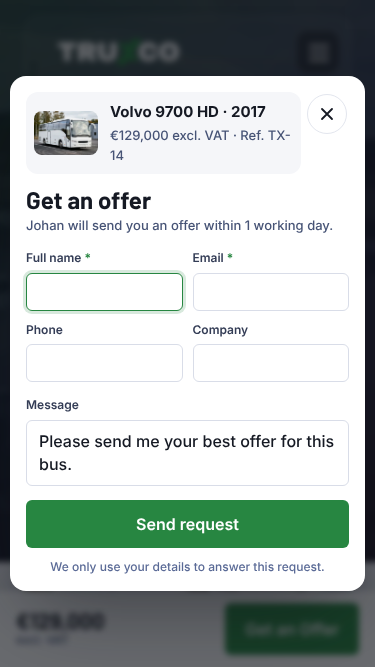
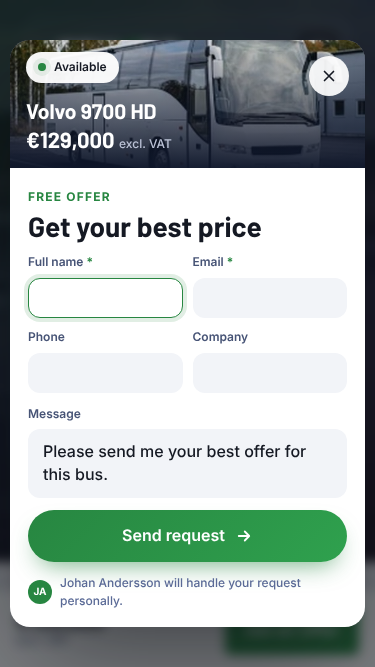
Truxco record: modern two-panel offer popup
Claude-Session: https://claude.ai/code/session_01CJrfSMbtJkdqaRmDBKHX4E

diff --git a/truxco-design/website-v2/BusDetail.dc.html b/truxco-design/website-v2/BusDetail.dc.html
@@ -40,19 +40,32 @@ a{color:#3050A6}a:hover{color:#151923}
 .bd-status{align-self:flex-start;display:inline-flex;align-items:center;gap:8px;font-size:13px;font-weight:600;color:#226333;background:#E2F8E8;padding:6px 12px;border-radius:999px}
 .bd-dot{flex:none;width:8px;height:8px;border-radius:50%;background:#278641;box-shadow:0 0 0 3px rgba(39,134,65,0.2);animation:bdPulse 2s ease-in-out infinite}@keyframes bdPulse{50%{box-shadow:0 0 0 5px rgba(39,134,65,0.08)}}
 @media (prefers-reduced-motion: reduce){.bd-dot{animation:none}}
-.of-overlay{position:fixed;inset:0;z-index:100;background:rgba(13,16,22,0.62);backdrop-filter:blur(3px);animation:ofFade .2s ease both}
+.of-overlay{position:fixed;inset:0;z-index:100;background:rgba(13,16,22,0.55);backdrop-filter:blur(6px);animation:ofFade .2s ease both}
 .of-wrap{position:fixed;inset:0;z-index:101;display:flex;align-items:center;justify-content:center;padding:16px;pointer-events:none}
-.of-dialog{pointer-events:auto;position:relative;width:100%;max-width:520px;max-height:calc(100dvh - 24px);overflow-y:auto;box-sizing:border-box;background:#FFFFFF;border-radius:20px;padding:20px 22px 18px;display:flex;flex-direction:column;gap:16px;box-shadow:0 30px 80px -20px rgba(13,16,22,0.5);animation:ofIn .25s cubic-bezier(.2,.8,.2,1) both}
-.of-x{position:absolute;top:18px;right:18px;width:40px;height:40px;border-radius:50%;border:1px solid #E3E6EE;background:#FFFFFF;color:#151923;display:flex;align-items:center;justify-content:center;cursor:pointer}.of-x:hover{background:#F5F6F9}
+.of-dialog{pointer-events:auto;position:relative;width:100%;max-width:820px;max-height:calc(100dvh - 24px);overflow:hidden;box-sizing:border-box;background:#FFFFFF;border-radius:24px;display:grid;grid-template-columns:300px minmax(0,1fr);box-shadow:0 40px 100px -24px rgba(13,16,22,0.6);animation:ofIn .3s cubic-bezier(.2,.8,.2,1) both}
+.of-side{position:relative;overflow:hidden;background:#0E162A;color:#FFFFFF;display:flex;flex-direction:column;justify-content:space-between;padding:20px}
+.of-side-img{position:absolute;inset:0;width:100%;height:100%;object-fit:cover}
+.of-side-shade{position:absolute;inset:0;background:linear-gradient(180deg,rgba(14,22,42,0.1) 0%,rgba(14,22,42,0.5) 45%,rgba(14,22,42,0.96) 100%)}
+.of-side-top,.of-side-body{position:relative}
+.of-side-body{display:flex;flex-direction:column;gap:6px}
+.of-chip{display:inline-flex;align-items:center;gap:8px;font-size:12px;font-weight:600;color:#151923;background:rgba(255,255,255,0.95);padding:6px 12px;border-radius:999px}
+.of-perks{list-style:none;margin:10px 0 0;padding:12px 0 0;border-top:1px solid rgba(255,255,255,0.14);display:flex;flex-direction:column;gap:6px;font-size:13px;color:#D9DDE8}.of-perks li{display:flex;align-items:center;gap:8px}
+.of-main{padding:26px 28px 22px;display:flex;flex-direction:column;justify-content:center}
+.of-form{display:flex;flex-direction:column;gap:16px}
+.of-x{position:absolute;z-index:2;top:16px;right:16px;width:40px;height:40px;border-radius:50%;border:0;background:#F2F4F8;color:#151923;display:flex;align-items:center;justify-content:center;cursor:pointer;transition:background .15s,transform .2s}.of-x:hover{background:#E3E6EE;transform:rotate(90deg)}
 .of-grid{display:grid;grid-template-columns:repeat(2,minmax(0,1fr));gap:12px}
-.of-f{display:flex;flex-direction:column;gap:5px}.of-f label{font-size:12px;font-weight:600;color:#343D56}
-.of-in{font:inherit;font-size:15px;width:100%;box-sizing:border-box;height:42px;padding:0 12px;border:1px solid #D9DDE8;border-radius:6px;background:#FFFFFF;color:#151923}.of-ta{height:auto!important;padding:9px 12px;resize:none;line-height:1.45}.of-in:focus{outline:none;border-color:#278641;box-shadow:0 0 0 3px rgba(39,134,65,0.18)}
-.of-x:focus-visible{outline:2px solid #278641;outline-offset:2px}
-@keyframes ofFade{from{opacity:0}}@keyframes ofIn{from{opacity:0;transform:translateY(12px) scale(.98)}}
-@media (max-width: 480px){.of-wrap{padding:10px}.of-dialog{padding:16px 16px 14px;gap:12px;border-radius:16px}.of-grid{gap:10px}.of-in{font-size:16px}}
-@media (max-height: 700px){.of-dialog{gap:12px;padding-top:16px;padding-bottom:14px}.of-grid{gap:10px}.of-in{height:38px}}
-@media (max-height: 600px){.of-note{display:none}}
-@media (prefers-reduced-motion: reduce){.of-overlay,.of-dialog{pointer-events:auto;position:relative;width:100%;max-width:520px;max-height:calc(100dvh - 24px);overflow-y:auto;box-sizing:border-box;background:#FFFFFF;border-radius:20px;padding:20px 22px 18px;display:flex;flex-direction:column;gap:16px;box-shadow:0 30px 80px -20px rgba(13,16,22,0.5);animation:ofIn .25s cubic-bezier(.2,.8,.2,1) both}}
+.of-f{display:flex;flex-direction:column;gap:6px}.of-f label{font-size:12px;font-weight:600;color:#475476}
+.of-in{font:inherit;font-size:15px;width:100%;box-sizing:border-box;height:44px;padding:0 14px;border:1.5px solid transparent;border-radius:12px;background:#F2F4F8;color:#151923;transition:background .15s,border-color .15s,box-shadow .15s}.of-in:hover{background:#ECEEF4}.of-ta{height:auto!important;padding:10px 14px;resize:none;line-height:1.45}
+.of-in:focus{outline:none;background:#FFFFFF;border-color:#278641;box-shadow:0 0 0 4px rgba(39,134,65,0.14)}
+.of-submit{font:inherit;display:flex;align-items:center;justify-content:center;gap:10px;width:100%;height:52px;border:0;border-radius:999px;background:linear-gradient(135deg,#278641 0%,#2FA14E 100%);color:#FFFFFF;font-weight:600;font-size:16px;cursor:pointer;box-shadow:0 12px 24px -10px rgba(39,134,65,0.65);transition:transform .15s,box-shadow .15s}.of-submit:hover{transform:translateY(-1px)}.of-submit svg{transition:transform .15s}.of-submit:hover svg{transform:translateX(3px)}
+.of-agent{display:flex;align-items:center;justify-content:center;gap:8px;font-size:12px;color:#5A6A96}.of-av{flex:none;width:24px;height:24px;border-radius:50%;background:#278641;color:#FFFFFF;font-size:10px;font-weight:700;display:flex;align-items:center;justify-content:center}
+.of-x:focus-visible,.of-submit:focus-visible{outline:2px solid #278641;outline-offset:3px}
+@keyframes ofFade{from{opacity:0}}@keyframes ofIn{from{opacity:0;transform:translateY(16px) scale(.97)}}
+@media (max-width: 760px){.of-dialog{grid-template-columns:minmax(0,1fr);max-width:480px;border-radius:20px}.of-side{height:104px;padding:12px 16px;justify-content:flex-end}.of-side-top{position:absolute;top:12px;left:16px}.of-perks,.of-side-meta{display:none}.of-side-body{gap:0}.of-side-name{font-size:21px!important}.of-main{padding:18px 18px 16px}.of-form{gap:12px}.of-x{background:rgba(255,255,255,0.92)}}
+@media (max-width: 480px){.of-wrap{padding:10px}.of-in{font-size:16px}.of-grid{gap:10px}}
+@media (max-height: 700px){.of-main{padding-top:20px;padding-bottom:16px}.of-form{gap:12px}.of-in{height:40px}}
+@media (max-height: 600px){.of-agent{display:none}.of-side{height:72px}.of-side-top{display:none}}
+@media (prefers-reduced-motion: reduce){.of-overlay,.of-dialog{animation:none}.of-x:hover{transform:none}}
 .bd-tag{display:inline-flex;align-items:center;gap:6px;font-size:13px;font-weight:600;color:#FFFFFF;padding:6px 12px;border-radius:999px}
 .bd-back:hover{color:#FFFFFF}
 .bd-ghost{font:inherit;display:inline-flex;align-items:center;gap:8px;height:44px;padding:0 16px;border-radius:6px;background:rgba(255,255,255,0.08);border:1px solid rgba(255,255,255,0.2);color:#FFFFFF;font-size:14px;font-weight:600;cursor:pointer;transition:background .15s}.bd-ghost:hover{background:rgba(255,255,255,0.16)}.bd-ghost[aria-pressed="true"]{background:#FFFFFF;color:#C2185B;border-color:#FFFFFF}.bd-ghost[aria-pressed="true"] svg{fill:#C2185B}
@@ -466,16 +479,27 @@ a{color:#3050A6}a:hover{color:#151923}
 <div class="of-overlay" onClick="{{closeOffer}}"></div>
 <div class="of-wrap" style="{{offerWrapStyle}}">
 <div role="dialog" aria-modal="true" aria-labelledby="of-title" class="of-dialog">
-<button type="button" class="of-x" aria-label="Close" onClick="{{closeOffer}}"><svg aria-hidden="true" width="20" height="20" viewBox="0 0 24 24" fill="none" stroke="currentColor" stroke-width="2.2" stroke-linecap="round"><path d="M6 6l12 12M18 6L6 18"></path></svg></button>
-<div style="display: flex; align-items: center; gap: 12px; padding: 8px; border-radius: 12px; background: #F5F6F9; margin-right: 48px">
-<img src="/_blob/bcab9233641a761d8bdcca8ab1e9cf3f" alt="" style="flex: none; width: 64px; height: 44px; border-radius: 8px; object-fit: cover">
-<span style="display: flex; flex-direction: column; gap: 2px; min-width: 0"><strong style="font-size: 15px; color: #151923">Volvo 9700 HD · 2017</strong><span style="font-size: 13px; color: #475476">€129,000 excl. VAT · Ref. TX-14</span></span>
+<button type="button" class="of-x" aria-label="Close" onClick="{{closeOffer}}"><svg aria-hidden="true" width="18" height="18" viewBox="0 0 24 24" fill="none" stroke="currentColor" stroke-width="2.2" stroke-linecap="round"><path d="M6 6l12 12M18 6L6 18"></path></svg></button>
+<aside class="of-side" aria-label="Selected bus">
+<img src="/_blob/bcab9233641a761d8bdcca8ab1e9cf3f" alt="" class="of-side-img">
+<div class="of-side-shade" aria-hidden="true"></div>
+<div class="of-side-top"><span class="of-chip"><span class="bd-dot" aria-hidden="true"></span>Available</span></div>
+<div class="of-side-body">
+<span class="of-side-meta" style="font-size: 12px; font-weight: 600; letter-spacing: 0.08em; text-transform: uppercase; color: #9CE7B1">Coach · 2017 · Ref. TX-14</span>
+<strong class="of-side-name" style="font-family: 'Barlow', sans-serif; font-size: 26px; line-height: 1.1; color: #FFFFFF">Volvo 9700 HD</strong>
+<span style="font-family: 'Barlow', sans-serif; font-weight: 700; font-size: 22px; color: #FFFFFF">€129,000 <span style="font-family: Inter, sans-serif; font-size: 12px; font-weight: 500; color: #BCC3D7">excl. VAT</span></span>
+<ul class="of-perks">
+<li><svg aria-hidden="true" width="14" height="14" viewBox="0 0 24 24" fill="none" stroke="#6FDC8D" stroke-width="2.4" stroke-linecap="round" stroke-linejoin="round"><path d="M5 12.5l4.5 4.5L19 7.5"></path></svg>Reply within 1 working day</li>
+<li><svg aria-hidden="true" width="14" height="14" viewBox="0 0 24 24" fill="none" stroke="#6FDC8D" stroke-width="2.4" stroke-linecap="round" stroke-linejoin="round"><path d="M5 12.5l4.5 4.5L19 7.5"></path></svg>No obligation, free offer</li>
+</ul>
 </div>
+</aside>
+<div class="of-main">
 <sc-if value="{{offerForm}}" hint-placeholder-val="{{true}}">
-<form onSubmit="{{submitOffer}}" style="display: flex; flex-direction: column; gap: 14px">
-<div style="display: flex; flex-direction: column; gap: 2px">
-<h2 id="of-title" style="margin: 0; font-family: 'Barlow', sans-serif; font-weight: 700; font-size: 24px; line-height: 1.15; color: #151923">Get an offer</h2>
-<p style="margin: 0; font-size: 13px; color: #475476">Johan will send you an offer within 1 working day.</p>
+<form class="of-form" onSubmit="{{submitOffer}}">
+<div style="display: flex; flex-direction: column; gap: 4px; padding-right: 44px">
+<span style="font-size: 12px; font-weight: 700; letter-spacing: 0.1em; text-transform: uppercase; color: #278641">Free offer</span>
+<h2 id="of-title" style="margin: 0; font-family: 'Barlow', sans-serif; font-weight: 700; font-size: 28px; line-height: 1.1; color: #151923">Get your best price</h2>
 </div>
 <div class="of-grid">
 <div class="of-f"><label for="of-name">Full name <span aria-hidden="true" style="color: #278641">*</span></label><input id="of-name" type="text" required autocomplete="name" autofocus class="of-in"></div>
@@ -484,18 +508,19 @@ a{color:#3050A6}a:hover{color:#151923}
 <div class="of-f"><label for="of-company">Company</label><input id="of-company" type="text"  autocomplete="organization" class="of-in"></div>
 </div>
 <div class="of-f"><label for="of-msg">Message</label><textarea id="of-msg" rows="2" class="of-in of-ta">Please send me your best offer for this bus.</textarea></div>
-<button type="submit" class="bd-cta" style="width: 100%; height: 48px; border: 0; font: inherit; font-weight: 600; font-size: 16px; cursor: pointer">Send request</button>
-<p class="of-note" style="margin: -4px 0 0; font-size: 12px; color: #5A6A96; text-align: center">We only use your details to answer this request.</p>
+<button type="submit" class="of-submit">Send request<svg aria-hidden="true" width="18" height="18" viewBox="0 0 24 24" fill="none" stroke="currentColor" stroke-width="2.4" stroke-linecap="round" stroke-linejoin="round"><path d="M5 12h14M13 6l6 6-6 6"></path></svg></button>
+<div class="of-agent"><span aria-hidden="true" class="of-av">JA</span><span>Johan Andersson will handle your request personally.</span></div>
 </form>
 </sc-if>
 <sc-if value="{{offerSent}}" hint-placeholder-val="{{false}}">
-<div style="display: flex; flex-direction: column; align-items: center; text-align: center; gap: 12px; padding: 20px 8px 8px">
-<span aria-hidden="true" style="width: 64px; height: 64px; border-radius: 50%; background: #E2F8E8; display: flex; align-items: center; justify-content: center"><svg width="30" height="30" viewBox="0 0 24 24" fill="none" stroke="#278641" stroke-width="2.4" stroke-linecap="round" stroke-linejoin="round"><path d="M5 12.5l4.5 4.5L19 7.5"></path></svg></span>
-<h2 id="of-title" role="status" style="margin: 0; font-family: 'Barlow', sans-serif; font-weight: 700; font-size: 26px; color: #151923">Request sent</h2>
-<p style="margin: 0; font-size: 15px; color: #475476; max-width: 36ch">Thanks! Johan Andersson will send you an offer for the Volvo 9700 HD within 1 working day.</p>
-<button type="button" class="bd-cta2" style="margin-top: 8px; font: inherit; font-weight: 600; cursor: pointer; width: 100%" onClick="{{closeOffer}}">Close</button>
+<div style="display: flex; flex-direction: column; align-items: center; justify-content: center; text-align: center; gap: 12px; padding: 24px 0">
+<span aria-hidden="true" style="width: 68px; height: 68px; border-radius: 50%; background: linear-gradient(135deg, #278641, #3CD064); display: flex; align-items: center; justify-content: center; box-shadow: 0 12px 24px -8px rgba(39,134,65,0.6)"><svg aria-hidden="true" width="32" height="32" viewBox="0 0 24 24" fill="none" stroke="#FFFFFF" stroke-width="2.4" stroke-linecap="round" stroke-linejoin="round"><path d="M5 12.5l4.5 4.5L19 7.5"></path></svg></span>
+<h2 id="of-title" role="status" style="margin: 0; font-family: 'Barlow', sans-serif; font-weight: 700; font-size: 28px; color: #151923">Request sent</h2>
+<p style="margin: 0; font-size: 15px; color: #475476; max-width: 32ch">Johan Andersson will send you an offer for the Volvo 9700 HD within 1 working day.</p>
+<button type="button" class="of-submit" style="margin-top: 8px; background: #0E162A; box-shadow: none" onClick="{{closeOffer}}">Done</button>
 </div>
 </sc-if>
+</div>
 </div>
 </div>
 </sc-if>
@@ -674,7 +699,7 @@ class Component extends DCLogic {
       saved, savedPressed: saved ? 'true' : 'false', saveLabel: saved ? 'Saved' : 'Save',
       toggleSave: () => this.setState({ saved: !saved }),
       offerOpen: !!st.offerOpen, offerForm: !!st.offerOpen && !st.offerSent, offerSent: !!st.offerOpen && !!st.offerSent,
-      openOffer: (e) => { if (e && e.preventDefault) e.preventDefault(); let y = null; try { const vh = window.innerHeight || 0; if (vh > 1400 && e && typeof e.clientY === 'number') y = Math.max(16, e.clientY - 260); } catch (er) {} this.setState({ offerOpen: true, offerSent: false, offerY: y }); },
+      openOffer: (e) => { if (e && e.preventDefault) e.preventDefault(); let y = null; try { const vh = window.innerHeight || 0; if (vh > 1400 && e && typeof e.clientY === 'number') y = Math.max(16, e.clientY - 240); } catch (er) {} this.setState({ offerOpen: true, offerSent: false, offerY: y }); },
       offerWrapStyle: (st.offerY != null) ? 'align-items: flex-start; padding-top: ' + st.offerY + 'px;' : '',
       closeOffer: () => this.setState({ offerOpen: false, offerSent: false }),
       submitOffer: (e) => { if (e && e.preventDefault) e.preventDefault(); this.setState({ offerSent: true }); },

diff --git a/truxco-design/DESIGN-NOTES.md b/truxco-design/DESIGN-NOTES.md
@@ -179,3 +179,11 @@ Second artboard "UsedBuses.dc.html" in the V2 preview (https://claude.ai/artifac
   - Fields: Name* + Email* in one row, Phone + Company in the next, both rows stay 2 columns on mobile. The message box is 2 rows ("Please send me your best offer for this bus."). Country select and the "similar buses" checkbox are removed.
   - Size: dialog is 520px wide, with a smaller bus summary and title.
   - Small screens: inputs shrink on screens under 700px tall, and the privacy note hides under 600px.
+- Get an Offer popup restyled to look more modern:
+  - Layout: an 820px two-panel dialog with 24px corners.
+  - Left panel: bus photo with a navy gradient, the "Available" chip, "Coach · 2017 · Ref. TX-14", name, price, and two perks (Reply within 1 working day, No obligation).
+  - Right panel: "FREE OFFER" eyebrow and the "Get your best price" heading. Fields are soft grey with 12px corners and turn white with a green focus ring. There is a pill-shaped gradient "Send request →" button and a "Johan Andersson will handle your request personally" line.
+  - Close button: round, and it rotates on hover.
+  - Success state: green gradient check and a navy "Done" button.
+  - Mobile: the photo becomes a 104px banner above the form.
+  - No scroll at any size. Checked heights: 1366×640 → 445px, 375×667 → 587px, 320×568 → 536px.
